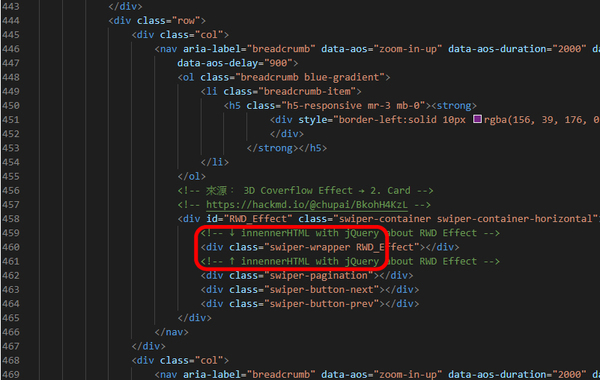
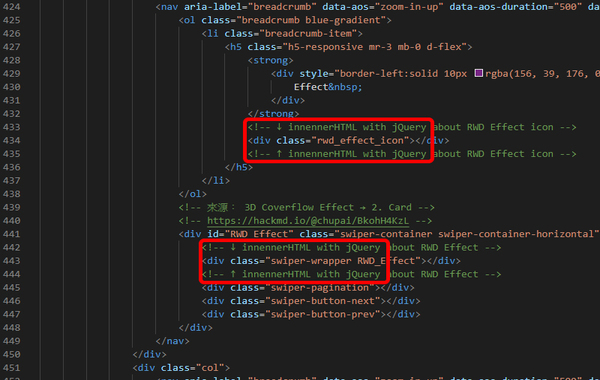
Update v19
1. .RWD Effect add icon
2. .fix .Structure Have Use innerHTML RWD_effect img

Changed region(s): [[0.18, 0.0, 1.0, 1.0], [0.0, 0.0, 0.06, 1.0], [0.9, 0.4053, 0.93, 0.4342]]

diff --git a/Resume/index.html b/Resume/index.html
@@ -74,8 +74,9 @@
                         <!-- ↑ innerHTML with jQuery -->
                         <div class="dropdown" title="從 linktr.ee 連到 Github / Learning process / 後，可以看到更多">
                             <button class="btn hvr-reveal indigo darken-2 dropdown-toggle px-2" type="button"
-                                data-toggle="dropdown" style="color: white;">HTML&nbsp;+&nbsp;CSS&nbsp;<span
-                                    class="caret"></span></button>
+                                data-toggle="dropdown" style="color: white;">HTML&nbsp;+&nbsp;CSS&nbsp;
+                                <span class="caret"></span>
+                            </button>
                             <ul class="dropdown-menu" style="background-color: unset;border: unset;">
                                 <!-- ↓ innerHTML with jQuery -->
                                 <div id="menu_1"></div>
@@ -84,8 +85,8 @@
                         </div>
                         <div class="dropdown" title="從 linktr.ee 連到 Github / Learning process / 後，可以看到更多">
                             <button class="btn hvr-reveal indigo darken-2 dropdown-toggle px-2" type="button"
-                                data-toggle="dropdown" style="color: white;">JavaScript&nbsp;<span
-                                    class="caret"></span></button>
+                                data-toggle="dropdown" style="color: white;">JavaScript&nbsp;
+                                <span class="caret"></span></button>
                             <ul class="dropdown-menu" style="background-color: unset;border: unset;">
                                 <!-- ↓ innerHTML with jQuery -->
                                 <div id="menu_2"></div>
@@ -420,14 +421,20 @@
                 </div>
             </div>
             <div class="row">
-                <div class="col">
+                <div class="col-12">
                     <nav aria-label="breadcrumb" data-aos="zoom-in-up" data-aos-duration="500" data-aos-once="false">
                         <ol class="breadcrumb blue-gradient">
                             <li class="breadcrumb-item">
-                                <h5 class="h5-responsive mr-3 mb-0"><strong>
-                                        <div style="border-left:solid 10px rgba(156, 39, 176, 0.7);">&nbsp;RWD Effect
+                                <h5 class="h5-responsive mr-3 mb-0 d-flex">
+                                    <strong>
+                                        <div style="border-left:solid 10px rgba(156, 39, 176, 0.7);">&nbsp;RWD
+                                            Effect&nbsp;
                                         </div>
-                                    </strong></h5>
+                                    </strong>
+                                    <!-- ↓ innennerHTML with jQuery about RWD Effect icon -->
+                                    <div class="rwd_effect_icon">&nbsp;</div>
+                                    <!-- ↑ innennerHTML with jQuery about RWD Effect icon -->
+                                </h5>
                             </li>
                         </ol>
                         <!-- 來源： 3D Coverflow Effect → 2. Card -->
@@ -446,11 +453,13 @@
                     <nav aria-label="breadcrumb" data-aos="zoom-in-up" data-aos-duration="500" data-aos-once="false">
                         <ol class="breadcrumb blue-gradient">
                             <li class="breadcrumb-item">
-                                <h5 class="h5-responsive mr-3 mb-0"><strong>
+                                <h5 class="h5-responsive mr-3 mb-0">
+                                    <strong>
                                         <div style="border-left:solid 10px rgba(156, 39, 176, 0.7);">&nbsp;Structure
                                             Have Use innerHTML
                                         </div>
-                                    </strong></h5>
+                                    </strong>
+                                </h5>
                             </li>
                         </ol>
                         <!-- 來源： 3D Coverflow Effect → 2. Card -->

diff --git a/Resume/03-js/index.js b/Resume/03-js/index.js
@@ -288,6 +288,32 @@ for (let index = 0; index < Experience.length; index++) {
     `
 }
 
+var rwd_effect_viewon = [
+    {
+        url:'https://issuu.com/home/published/resume_website_rwd_effect_mockup',
+        icon:'https://img.icons8.com/color/22/000000/issuu.png',
+        alt:'issuu',
+        title:'issuu',
+    },
+    {
+        url:'https://www.pinterest.com/lenovomi0403/front-end-website/resume-website-rwd-effect-mockup/',
+        icon:'https://img.icons8.com/color/22/000000/pinterest.png',
+        alt:'pinterest',
+        title:'pinterest',
+    },
+]
+
+var rwd_effect_icon = document.querySelector('.rwd_effect_icon')
+
+for (let index = 0; index < rwd_effect_viewon.length; index++) {
+    const element_rwd_effect_viewon = rwd_effect_viewon[index];
+    
+    rwd_effect_icon.innerHTML +=`
+    <a href="${element_rwd_effect_viewon.url}" target="_blank">
+        <img src="${element_rwd_effect_viewon.icon}" alt="${element_rwd_effect_viewon.alt}.png" title="view on ${element_rwd_effect_viewon.title}">&nbsp;
+    </a>
+    `
+}
 // ↓ innennerHTML with jQuery about RWD Effect
 var RWD_Effect = [
     {
@@ -354,8 +380,8 @@ for (let index = 0; index < RWD_Effect.length; index++) {
     const element_RWD_Effect = RWD_Effect[index];
     
     rwd_Effect.innerHTML +=`
-    <div class="swiper-slide cursor-pointer">
-        <div class="card">
+    <div class="swiper-slide">
+        <div class="card cursor-pointer">
             <img src="${element_RWD_Effect.img}" alt="${element_RWD_Effect.alt}" class="card__img" title="${element_RWD_Effect.title}">
             <div class="card__body">
                 <h3>${element_RWD_Effect.h3}</h3>

diff --git a/Resume/02-css/index.scss b/Resume/02-css/index.scss
@@ -1,5 +1,6 @@
 body{
     background-color: #E9EBEE;
+    cursor:context-menu;
 }
 
 .cursor-pointer {

diff --git a/Resume/02-css/index.css b/Resume/02-css/index.css
@@ -1,5 +1,6 @@
 body {
   background-color: #E9EBEE;
+  cursor: context-menu;
 }
 
 .cursor-pointer {
